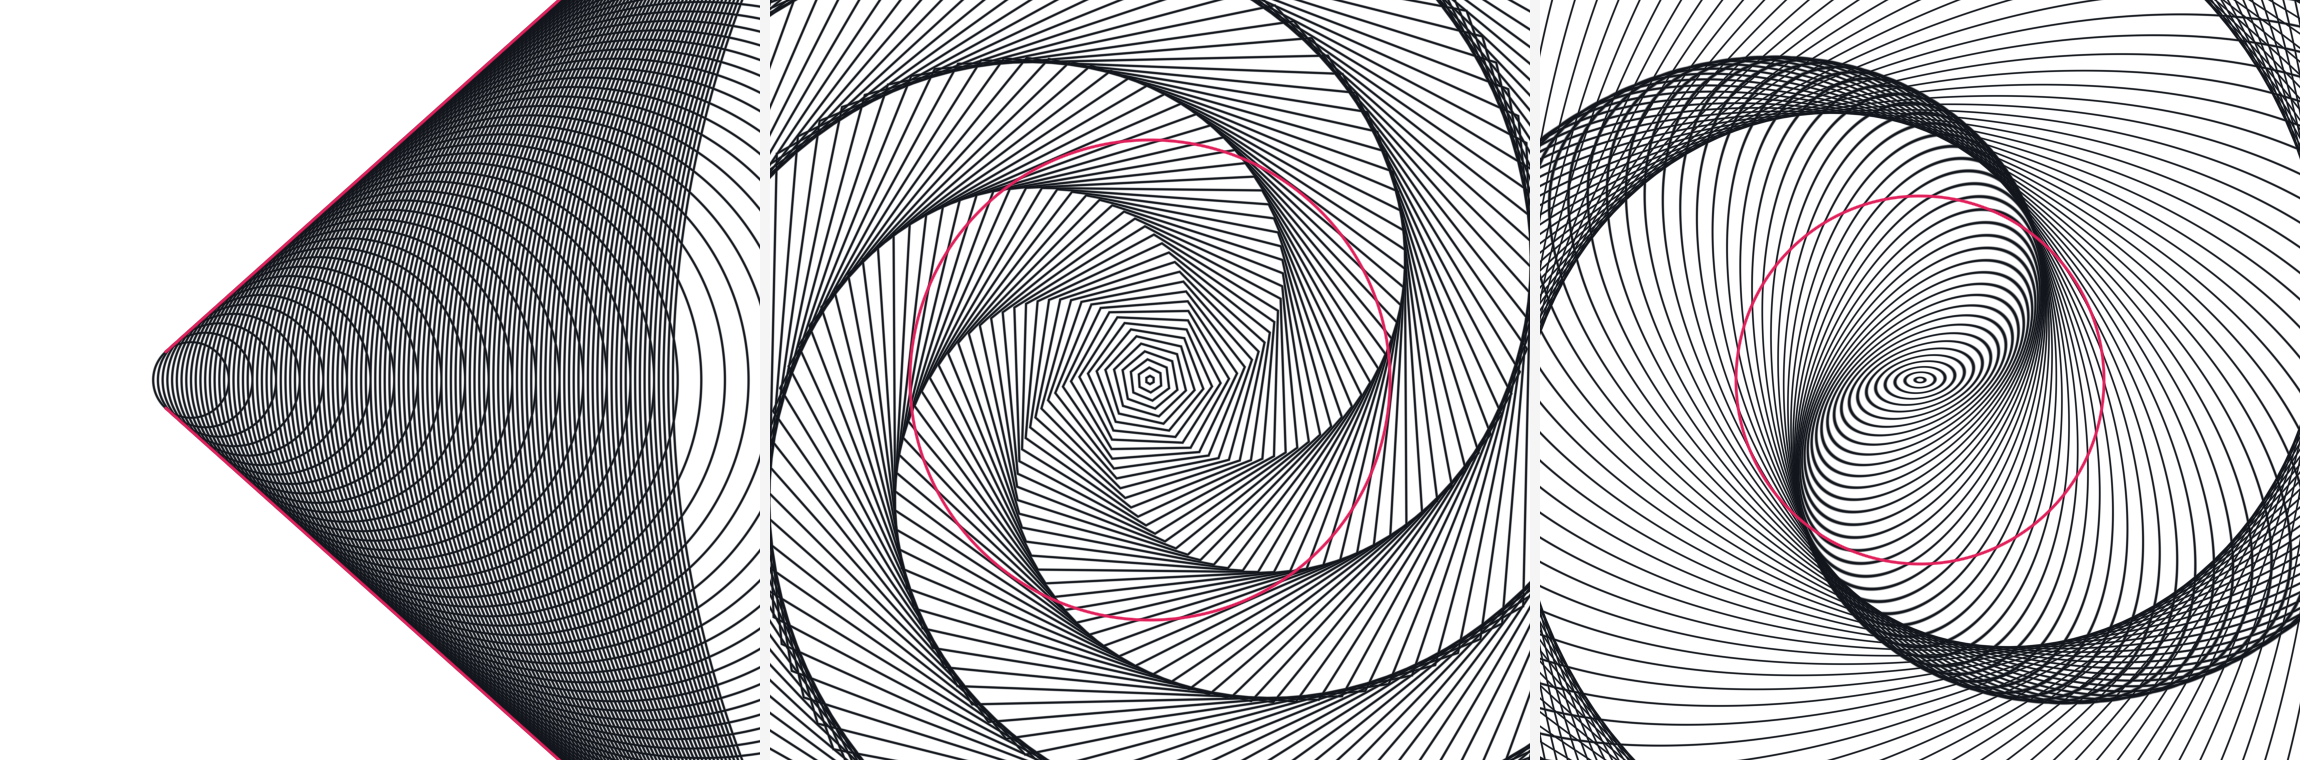
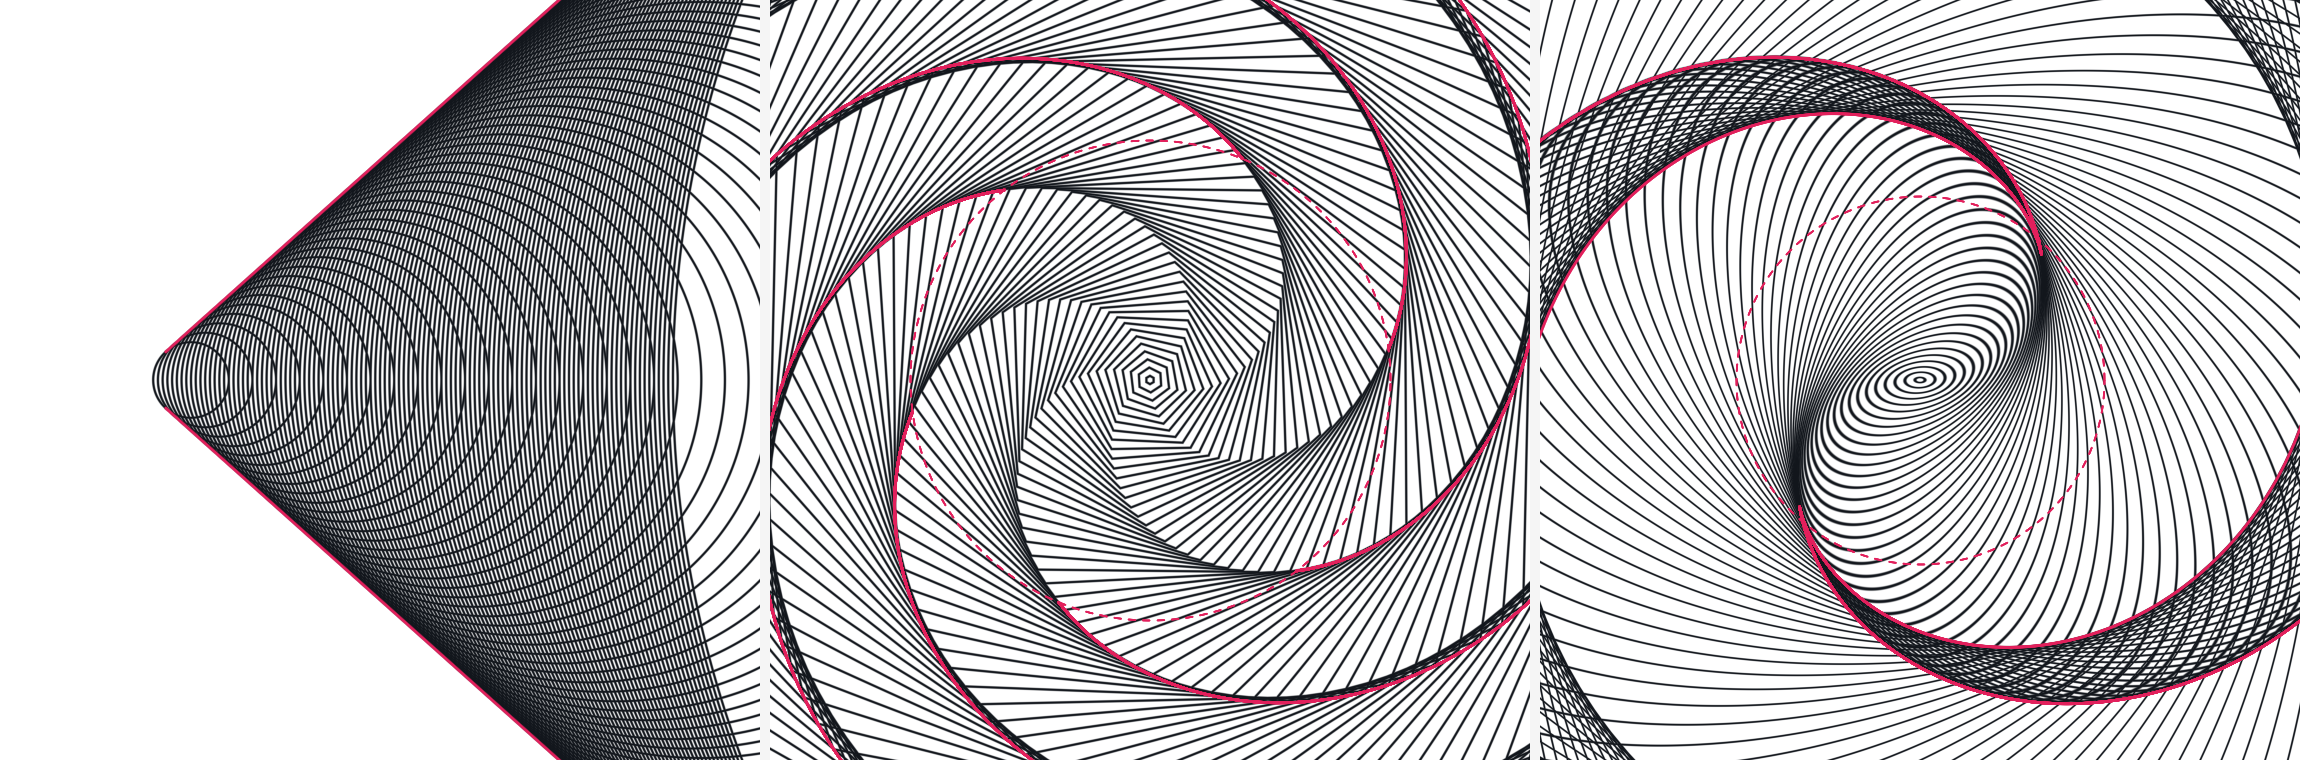
The fold-law figure now draws what the eye follows: the crimson overlay becomes the caustic itself — the smooth branch per arc plus, for polygons, the vertex trajectories a support corner contributes — riding the dark arms the render produces, with the onset radius demoted to a dashed cue. New gates

diff --git a/public/paper/index.html b/public/paper/index.html
@@ -858,6 +858,29 @@ point. The index survives as the argmin of a per-member distance
 (<a href="#sec-6">§6</a>), the fringe law of <a href="#sec-4">§4</a> applies to it
 unchanged, and the price of this rung is the certified inversion of
 <a href="#sec-7">§7</a>.</p>
+<p>There is one form behind all three. Present any family, however generated,
+by its <em>incidence</em>: the set $\{(p,\nu):p\in\gamma_\nu\}$ with the index
+treated as continuous. Wherever the defining equation has
+<span class="nowrap">$\partial_\nu\neq0$,</span> the implicit function theorem inverts it, and the count
+is a branch of the multivalued <span class="nowrap">$\nu(p)$;</span> the three rungs are precisely the
+three things a branch structure can do. It can glue into one global function
+(exact). It can fail to glue only around loops, by a locally constant
+integer: the monodromy of the covering that the incidence's projection to
+the plane makes away from its critical values (winding, the charge quantized
+because monodromy is). Or the projection can have critical values at all:
+the <em>discriminant</em>, <span class="nowrap">$\partial_\nu=0$,</span> where branches meet and the count
+folds. Nothing in this trisection is special to moiré; it is the classical
+theory of envelopes and coverings. What our two generators buy is
+<em>computability</em>: a group orbit trivializes its projection (no
+discriminant ever, monodromy read off the flow), and a front's discriminant
+is a support-function equation solved in closed form by the fold law of
+<a href="#sec-6">§6</a>. It also says exactly what a field
+(<a href="#sec-10-2">§10.2</a>) can and cannot do to a layer: displacing the count by
+$A f(p)$ keeps the members the level sets of a global, possibly
+circle-valued, phase, so a field can add <em>monodromy</em>  — 
+<a href="#sec-5">§5</a> mints defects in precisely those quantized units  —  but
+it can never create a discriminant. Folds belong to the geometry; no
+modulation a user types can fold an exact family.</p>
 <p>Orthogonal to the ladder is <em>rank</em>: how many integers name a member. A
 line family needs one; a lattice needs two, so its beats range over integer
 combinations of two generators per layer. Rank changes bookkeeping,
@@ -1695,9 +1718,13 @@ for a convex member. The family therefore folds  —  neighboring members
 touch, and an envelope forms  —  exactly where the normal speed vanishes:</p><div class="equation" id="eq-27"><div class="eq-scroll">\[s\,H(w)\;-\;\rho_n\,\theta\,H'(w)\;+\;\langle c'(n),\hat u\rangle \;=\; 0,
   \qquad w=u-n\theta.\]</div><span class="eq-no">(27)</span></div></div>
 <p>The proof is in Appendix <a href="#sec-A-2">A.2</a>; for a polygon, whose $H$ has
-corners, the statement holds piecewise and the suprema below are attained at
-the corners. What the lemma buys is that the fate of every family in this
-section can be read off (<a href="#eq-27">27</a>) by inspection.</p>
+corners, the statement holds piecewise, the suprema below are attained at
+the corners, and the corners contribute an envelope component of their own
+(the vertex trajectories, which Figure <a href="#fig-10">10</a> draws). In the
+terms of <a href="#sec-3-2">§3.2</a>, (<a href="#eq-27">27</a>) <em>is</em> the discriminant
+of the incidence projection, computed: $\partial_\nu$ of a front's defining
+equation is its normal speed. What the lemma buys is that the fate of every
+family in this section can be read off it by inspection.</p>
 <div class="theorem thm-plain" id="thm-4"><p><span class="thm-head">Corollary 4 (Rotation folds everything but circles).</span> With $\delta=0$ and <span class="nowrap">$\theta\neq0$,</span> the family folds at gauge radius</p><div class="equation" id="eq-28"><div class="eq-scroll">\[\rho^\star \;=\; \frac{s}{\theta\,L},
   \qquad L=\sup_w\,\lvert H'(w)/H(w)\rvert,\]</div><span class="eq-no">(28)</span></div><p>and nowhere before. For the regular $k$-gon <span class="nowrap">$L=\tan(\pi/k)$,</span> and the first
 crossings appear at the vertices, at Euclidean radius
@@ -1723,19 +1750,24 @@ walk eventually goes supersonic, at
 <span class="nowrap">$n^\star=\sqrt{(s/\lVert\delta\rVert)^2-1}\,/\,\theta$.</span></p></div>
 <figure class="paper-figure wide" id="fig-10"><img src="figures/fold-law.png" width="2300" height="760" alt=""><div class="panelrow"><span>(a) a supersonic walk</span><span>(b) hexagons under rotation</span><span>(c) an ellipse gauge under rotation</span></div><figcaption><span class="fignum">Fig. 10.</span> <strong>The fold law, drawn.</strong>  Every panel is rendered by exhaustive
   search  —  nearest member by brute force, no support calculus anywhere  — 
-  and the crimson loci are computed from the parameters alone by
+  and the crimson curves are computed from the parameters alone by
   Eq. <a href="#eq-27">27</a>. <strong>(a)</strong> Walking circles at supersonic drift
   (<span class="nowrap">$s{=}7$,</span> <span class="nowrap">$\lVert\delta\rVert{=}1.5s$):</span> members osculate along the two
   predicted wake rays, which are tangent to every ring at once.
-  <strong>(b)</strong> Rotating hexagons (<span class="nowrap">$s{=}6$,</span> <span class="nowrap">$\theta{=}0.06$):</span> inside
-  $R^\star=s/(\theta\sin(\pi/6))$ the members nest as a clean pinwheel, strokes
-  crowding as the local gap closes toward the fold; the first crossings appear
-  at the vertices on the crimson circle, and the crosshatch of genuine folds
-  lives entirely outside it. <strong>(c)</strong> An ellipse gauge (axes $1.4$ and
-  <span class="nowrap">$1/1.4$,</span> same <span class="nowrap">$s,\theta$)</span> folds at
-  $R^\star=\rho^\star\sqrt{(a^2+b^2)/2}$ with <span class="nowrap">$\rho^\star=2abs/\theta(a^2-b^2)$.</span>
-  Onsets measured by brute-force nesting tests land within
-  $2.8\%$ of the predictions across every gated shape
+  <strong>(b)</strong> Rotating hexagons (<span class="nowrap">$s{=}6$,</span> <span class="nowrap">$\theta{=}0.06$):</span> the six dark
+  arms <em>are</em> the family's caustic  —  strokes crowd as the local gap
+  closes, then cross  —  and the crimson curves are that caustic solved from
+  (<a href="#eq-27">27</a>), one smooth branch and one vertex trajectory per corner,
+  riding the arms they predict. The dashed circle is the onset radius
+  <span class="nowrap">$R^\star=s/(\theta\sin(\pi/6))$:</span> below it the calculus forbids any fold,
+  and the pinwheel is a clean nest. <strong>(c)</strong> An ellipse gauge (axes $1.4$
+  and <span class="nowrap">$1/1.4$,</span> same <span class="nowrap">$s,\theta$):</span> two caustic branches, born on the dashed
+  circle $R^\star=\rho^\star\sqrt{(a^2+b^2)/2}$ with
+  <span class="nowrap">$\rho^\star=2abs/\theta(a^2-b^2)$.</span> The gates measure all of it: crossings
+  of consecutive members are born on the predicted caustic to within
+  $0.07$ world units at onset radii near <span class="nowrap">$200$,</span> deep folds hug it
+  within $1.1$ member gaps, and every onset radius lands within
+  $2.8\%$ of its formula
   (<code>tools/ exp/ foldlaw.mjs</code>).</figcaption></figure>
 <p>Figure <a href="#fig-10">10</a> is the law drawn over renders that never saw it. One
 consequence worth stating plainly: the integrability ladder of

diff --git a/paper/sec-walking.tex b/paper/sec-walking.tex
@@ -197,9 +197,13 @@ touch, and an envelope forms --- exactly where the normal speed vanishes:
 \end{lemma}
 
 The proof is in Appendix~\ref{app:foldlaw}; for a polygon, whose $H$ has
-corners, the statement holds piecewise and the suprema below are attained at
-the corners. What the lemma buys is that the fate of every family in this
-section can be read off \eqref{eq:foldlaw} by inspection.
+corners, the statement holds piecewise, the suprema below are attained at
+the corners, and the corners contribute an envelope component of their own
+(the vertex trajectories, which Figure~\ref{fig:foldlaw} draws). In the
+terms of \S\ref{sec:taxonomy}, \eqref{eq:foldlaw} \emph{is} the discriminant
+of the incidence projection, computed: $\partial_\nu$ of a front's defining
+equation is its normal speed. What the lemma buys is that the fate of every
+family in this section can be read off it by inspection.
 
 \begin{corollary}[Rotation folds everything but circles]
 \label{cor:rotation}
@@ -245,28 +249,34 @@ $n^\star=\sqrt{(s/\lVert\delta\rVert)^2-1}\,/\,\theta$.
     (b) hexagons under rotation,
     (c) an ellipse gauge under rotation}
   \Description{Three square panels of dense black line families on white, each
-  with a thin crimson curve drawn over it. The left panel shows circles walking
-  to the right, piling up along two straight crimson rays that open like a
-  wake. The middle panel shows a pinwheel of nested rotating hexagons whose
-  strokes crowd into six dark spiral arms; a crimson circle sits where the
-  hexagons first begin to cross, and a fishnet of crossings fills the corners
-  outside it. The right panel shows the same construction for nested rotating
-  ellipses, with a smaller crimson circle marking where their crossings begin.}
+  with crimson curves drawn over it. The left panel shows circles walking to
+  the right, piling up along two straight crimson rays that open like a wake.
+  The middle panel shows a pinwheel of nested rotating hexagons whose strokes
+  crowd into six dark spiral arms, each with a crimson curve riding along it;
+  a faint dashed crimson circle passes through the points where the arms are
+  born. The right panel shows the same construction for nested rotating
+  ellipses, whose two dark swirls each carry a crimson curve, with a smaller
+  dashed circle at their birth.}
   \caption{\figlead{The fold law, drawn.} Every panel is rendered by exhaustive
   search --- nearest member by brute force, no support calculus anywhere ---
-  and the crimson loci are computed from the parameters alone by
+  and the crimson curves are computed from the parameters alone by
   Eq.~\ref{eq:foldlaw}. \textbf{(a)}~Walking circles at supersonic drift
   ($s{=}7$, $\lVert\delta\rVert{=}1.5s$): members osculate along the two
   predicted wake rays, which are tangent to every ring at once.
-  \textbf{(b)}~Rotating hexagons ($s{=}6$, $\theta{=}0.06$): inside
-  $R^\star=s/(\theta\sin(\pi/6))$ the members nest as a clean pinwheel, strokes
-  crowding as the local gap closes toward the fold; the first crossings appear
-  at the vertices on the crimson circle, and the crosshatch of genuine folds
-  lives entirely outside it. \textbf{(c)}~An ellipse gauge (axes $1.4$ and
-  $1/1.4$, same $s,\theta$) folds at
-  $R^\star=\rho^\star\sqrt{(a^2+b^2)/2}$ with $\rho^\star=2abs/\theta(a^2-b^2)$.
-  Onsets measured by brute-force nesting tests land within
-  $\foldWorstOnsetPct\%$ of the predictions across every gated shape
+  \textbf{(b)}~Rotating hexagons ($s{=}6$, $\theta{=}0.06$): the six dark
+  arms \emph{are} the family's caustic --- strokes crowd as the local gap
+  closes, then cross --- and the crimson curves are that caustic solved from
+  \eqref{eq:foldlaw}, one smooth branch and one vertex trajectory per corner,
+  riding the arms they predict. The dashed circle is the onset radius
+  $R^\star=s/(\theta\sin(\pi/6))$: below it the calculus forbids any fold,
+  and the pinwheel is a clean nest. \textbf{(c)}~An ellipse gauge (axes $1.4$
+  and $1/1.4$, same $s,\theta$): two caustic branches, born on the dashed
+  circle $R^\star=\rho^\star\sqrt{(a^2+b^2)/2}$ with
+  $\rho^\star=2abs/\theta(a^2-b^2)$. The gates measure all of it: crossings
+  of consecutive members are born on the predicted caustic to within
+  $\foldBirthWorst$ world units at onset radii near $200$, deep folds hug it
+  within $\foldDeepGaps$ member gaps, and every onset radius lands within
+  $\foldWorstOnsetPct\%$ of its formula
   (\texttt{tools\pslash exp\pslash foldlaw.mjs}).}
   \label{fig:foldlaw}
 \end{figure*}

diff --git a/paper/sec-field.tex b/paper/sec-field.tex
@@ -73,6 +73,30 @@ point. The index survives as the argmin of a per-member distance
 unchanged, and the price of this rung is the certified inversion of
 \S\ref{sec:inverse}.
 
+There is one form behind all three. Present any family, however generated,
+by its \emph{incidence}: the set $\{(p,\nu):p\in\gamma_\nu\}$ with the index
+treated as continuous. Wherever the defining equation has
+$\partial_\nu\neq0$, the implicit function theorem inverts it, and the count
+is a branch of the multivalued $\nu(p)$; the three rungs are precisely the
+three things a branch structure can do. It can glue into one global function
+(exact). It can fail to glue only around loops, by a locally constant
+integer: the monodromy of the covering that the incidence's projection to
+the plane makes away from its critical values (winding, the charge quantized
+because monodromy is). Or the projection can have critical values at all:
+the \emph{discriminant}, $\partial_\nu=0$, where branches meet and the count
+folds. Nothing in this trisection is special to moir\'e; it is the classical
+theory of envelopes and coverings. What our two generators buy is
+\emph{computability}: a group orbit trivializes its projection (no
+discriminant ever, monodromy read off the flow), and a front's discriminant
+is a support-function equation solved in closed form by the fold law of
+\S\ref{sec:walking}. It also says exactly what a field
+(\S\ref{sec:exprs}) can and cannot do to a layer: displacing the count by
+$A f(p)$ keeps the members the level sets of a global, possibly
+circle-valued, phase, so a field can add \emph{monodromy} ---
+\S\ref{sec:defects} mints defects in precisely those quantized units --- but
+it can never create a discriminant. Folds belong to the geometry; no
+modulation a user types can fold an exact family.
+
 Orthogonal to the ladder is \emph{rank}: how many integers name a member. A
 line family needs one; a lattice needs two, so its beats range over integer
 combinations of two generators per layer. Rank changes bookkeeping,

diff --git a/paper/numbers.tex b/paper/numbers.tex
@@ -227,3 +227,5 @@
 % ---- data/foldlaw.json : the fold law, gated
 \newcommand{\foldWorstOnsetPct}{2.8}
 \newcommand{\foldBranchCounts}{3, 5, 9, 21, 41}
+\newcommand{\foldBirthWorst}{0.07}
+\newcommand{\foldDeepGaps}{1.1}

diff --git a/AGENTS.md b/AGENTS.md
@@ -84,7 +84,7 @@ A field is a displacement of a layer's *index*: `shift` many members, wherever y
 
 ## Paper site
 
-The ladder is now a THEOREM, not a taxonomy. §3.2 "Where the rungs come from": every family is a group orbit (four one-parameter similarity flows — translation, rotation, dilation, loxodrome; transverse seeds never fold; winding ⇔ rotational part; the classification names two unshipped carriers, geometric rings and log spirals) or a propagating front. §6.3 "The fold law" (`lem:foldlaw`): a front folds exactly where its support-function normal speed ∂ₙHₙ = s·H(w) − ρₙθH′(w) + ⟨c′(n),û⟩ vanishes (Jacobian −(H+H″)∂ₙH). Corollaries: rotation folds every gauge but the circle at ρ* = s/(θ·sup|H′/H|) — k-gon L = tan(π/k), Euclidean onset R* = s/(θ sin(π/k)) at the vertices; ellipse L = (a²−b²)/2ab, R* = ρ*√((a²+b²)/2); the drift constant m = rad(−δ) is a MACH NUMBER (fold ⇔ m > s; m = s is the sonic locus where the window theorem degenerates and Prop closed's residual goes flat). §6.4: θ=0 makes h_p convex for EVERY gauge (one fact behind mod/quadratic/polygon-prop; translated-ellipse gauge = same quadratic, verified); `prop:untwist` — rational twist 2πa/b splits into b convex classes (closed form of size b, verified exact at 4π/7), and the only mechanism a formula has is freezing frames on finitely many classes (finite ⇔ rational); the interpolated incidence is non-semialgebraic for ANY θ≠0 (cos transcendental over ℝ(ν), definable-center extraction) — Kepler-class, but multivalued: branches through a point grow linearly with radius. Gates in `paper/tools/exp/foldlaw.mjs` (brute nesting/membership tests, no support calculus; onsets within 2.8%, splits exact to 1e-7); figure `foldlaw-figs.mjs` → `fold-law.png` (crimson predicted loci over brute renders — Mach wake rays trimmed to n≥0 tangencies, hexagon and ellipse onset circles). Macros `\foldWorstOnsetPct`, `\foldBranchCounts` from foldlaw.json via numbers.mjs (which now FAILS if a foldlaw gate fails).
+The ladder is now a THEOREM, not a taxonomy. §3.2 "Where the rungs come from": every family is a group orbit (four one-parameter similarity flows — translation, rotation, dilation, loxodrome; transverse seeds never fold; winding ⇔ rotational part; the classification names two unshipped carriers, geometric rings and log spirals) or a propagating front. §6.3 "The fold law" (`lem:foldlaw`): a front folds exactly where its support-function normal speed ∂ₙHₙ = s·H(w) − ρₙθH′(w) + ⟨c′(n),û⟩ vanishes (Jacobian −(H+H″)∂ₙH). Corollaries: rotation folds every gauge but the circle at ρ* = s/(θ·sup|H′/H|) — k-gon L = tan(π/k), Euclidean onset R* = s/(θ sin(π/k)) at the vertices; ellipse L = (a²−b²)/2ab, R* = ρ*√((a²+b²)/2); the drift constant m = rad(−δ) is a MACH NUMBER (fold ⇔ m > s; m = s is the sonic locus where the window theorem degenerates and Prop closed's residual goes flat). §6.4: θ=0 makes h_p convex for EVERY gauge (one fact behind mod/quadratic/polygon-prop; translated-ellipse gauge = same quadratic, verified); `prop:untwist` — rational twist 2πa/b splits into b convex classes (closed form of size b, verified exact at 4π/7), and the only mechanism a formula has is freezing frames on finitely many classes (finite ⇔ rational); the interpolated incidence is non-semialgebraic for ANY θ≠0 (cos transcendental over ℝ(ν), definable-center extraction) — Kepler-class, but multivalued: branches through a point grow linearly with radius. Gates in `paper/tools/exp/foldlaw.mjs` (brute nesting/membership tests, no support calculus; onsets within 2.8%, splits exact to 1e-7); figure `foldlaw-figs.mjs` → `fold-law.png` (crimson over brute renders — Mach wake rays trimmed to n≥0 tangencies; for the rotating panels the overlay is the CAUSTIC CURVES ρ(w) = sH/(θH′) mapped through the frame turn — polygons carry a second envelope component, the vertex trajectories, because a support corner absorbs a slope range — plus a dashed onset circle; an onset-circle-only overlay read as unrelated to the visible arms and the user flagged it). Consecutive-member crossings are BORN on the caustic (gated to 0.07 world units) and drift as the lens deepens (Rolle: within the dip depth; gated ≤1.5 gaps) — the deepest-excess point is NOT on the caustic past onset, don't gate that. Above both generators sits the incidence form (§3.2): rungs = branch structure of ν(p) from F(p,ν)=0 — glues (exact) / monodromy (winding) / discriminant ∂νF=0 (fold); fields can add monodromy (defects) but never a discriminant. Macros `\foldWorstOnsetPct`, `\foldBranchCounts` from foldlaw.json via numbers.mjs (which now FAILS if a foldlaw gate fails).
 
 The paper's spine is the integrability ladder: `sec-field.tex` is §3 "A pattern is a counting map" (the object, the exact/winding/fold taxonomy in `sec:taxonomy`, the catalog absorbed as subsections `sec:catalog`/`sec:offrung`), `sec-super.tex` is §4 Superposition (law → criterion → selection → envelope → verification, in that order), `sec-defects.tex` is §5, walking/inverse are the fold rung. `sec-catalog.tex` is deleted — do not resurrect it; the old subsection labels all survived the move, so cross-refs and the supplemental's `xr` links did not change.
 
